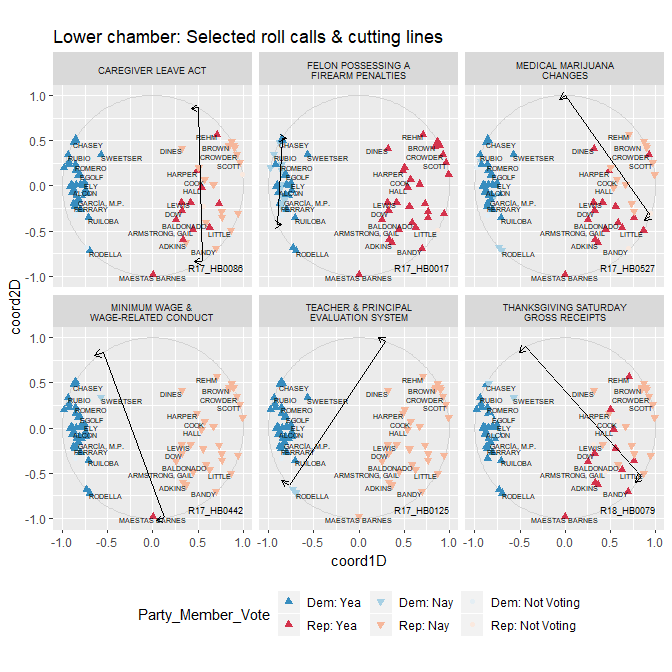
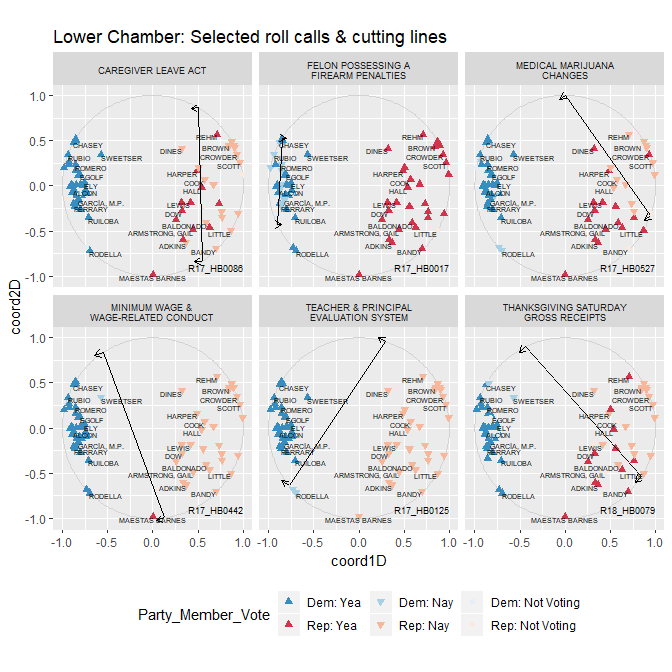
re

Changed region(s): [[0.1562, 0.0312, 0.6562, 0.0625]]

diff --git a/README.md b/README.md
@@ -98,7 +98,7 @@ ideal_2d <- wnominate::wnominate (roll_obj,
 ## 
 ## 
 ## W-NOMINATE estimation completed successfully.
-## W-NOMINATE took 7.68 seconds to execute.
+## W-NOMINATE took 8.03 seconds to execute.
 ```
 
 ``` r
@@ -182,7 +182,7 @@ ggplot () +
                nudge_y = 0.03,
                check_overlap = TRUE) +
   coord_fixed(ratio=1) + 
-  labs(title="Lower chamber: Cutting lines & legislator coordinates")
+  labs(title="Lower Chamber: Cutting lines & legislator coordinates")
 ```
 
 ![](figure-markdown_github/unnamed-chunk-12-1.png)
@@ -241,7 +241,7 @@ ggplot(aes(x=coord1D, y=coord2D)) +
                size=2.25, 
                nudge_y = 0.1,
                check_overlap = TRUE) +
-  labs(title="Lower chamber: Selected roll calls & cutting lines") +
+  labs(title="Lower Chamber: Selected roll calls & cutting lines") +
   facet_wrap(~Bill_Title, labeller = label_wrap_gen(), ncol = 3) +
   theme(strip.text = element_text(size=7))
 ```
